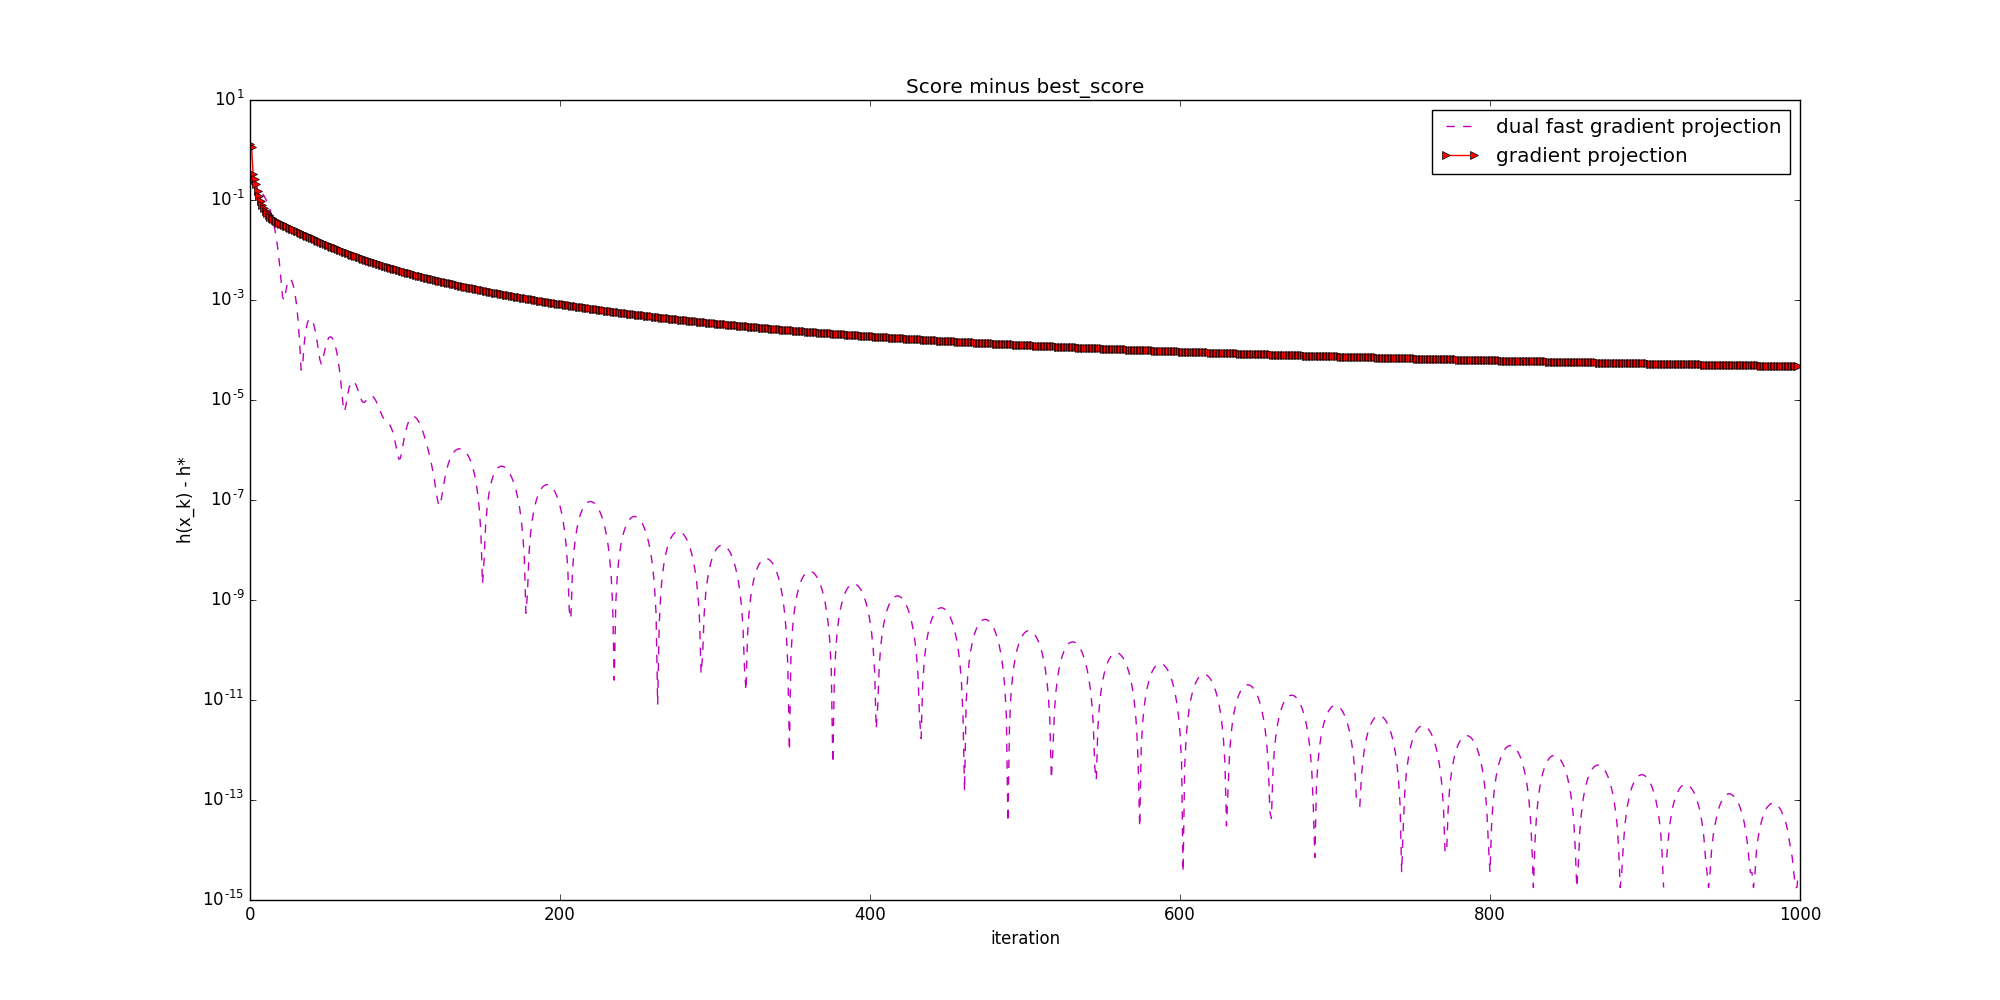
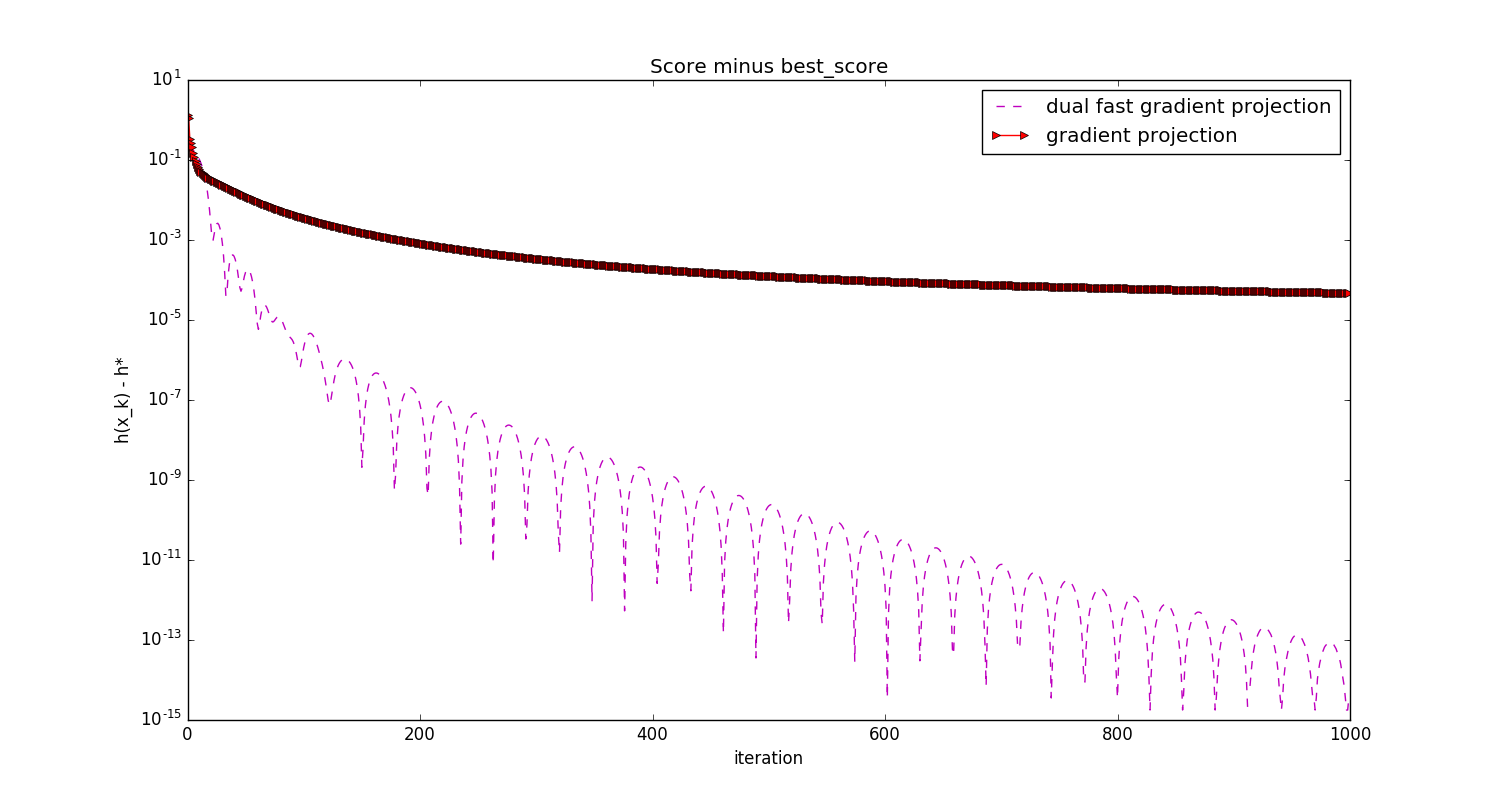
Add the dual objective function to the plots

diff --git a/hw3/q1/compare_methods.py b/hw3/q1/compare_methods.py
@@ -10,7 +10,7 @@ from hw3.q1.utils import q1_search_state, q1_dual_search_state
 
 def best_value():
     """
-    Returns the best possible score.
+    Returns the best possible objective function.
     :return:
     """
     method = single_variable_search.SingleVarSearch(1.5)
@@ -56,17 +56,18 @@ def Q1_comparison():
     print gradient_projection_5_vars.full_solution()
 
     # Plot required by exercise
-    plt.figure(figsize=(20, 10))
-    plt.title("Score as function of iteration")
+    plt.figure(figsize=(15, 8))
+    plt.title("objective function as function of iteration")
     plt.xlabel("iteration")
     plt.ylabel("h(x_k)")
-    plt.plot(scores_primal[gradient_projection_5_vars][:100], 'r->', label='gradient projection')
-    plt.plot(scores_primal[dual_fgp][:100], 'm--', label='dual fast gradient projection')
+    plt.plot(scores_primal[gradient_projection_5_vars][:100], 'r->', label='primal objective function - gradient projection')
+    plt.plot(scores_primal[dual_fgp][:100], 'm--', label='primal objective function - dual fast gradient projection')
+    plt.plot(scores[dual_fgp][:100], 'b-*', label='dual objective function - dual fast gradient projection')
     plt.legend()
     plt.savefig("q1c_first_100_iterations.png")
 
     # Plot of all methods.
-    plt.figure(figsize=(20, 10))
+    plt.figure(figsize=(15, 8))
     plt.plot(scores_primal[gradient_projection_5_vars][:100], 'r->', label='gradient projection')
     plt.plot(scores_primal[gradient_projection_dual][:100], 'c->', label='gradient projection dual')
     plt.plot(scores_primal[naive_3_vars][:100], 'b-<', label='naive gradient descent')
@@ -79,7 +80,7 @@ def Q1_comparison():
     h_best = best_value()
 
     # Plot required by exercise.
-    plt.figure(figsize=(20, 10))
+    plt.figure(figsize=(15, 8))
     plt.title("Score minus best_score")
     plt.xlabel("iteration")
     plt.ylabel("h(x_k) - h*")
@@ -87,8 +88,9 @@ def Q1_comparison():
     plt.semilogy(np.array(scores_primal[gradient_projection_5_vars]) - h_best, 'r->', label='gradient projection')
     plt.legend()
     plt.savefig("q1d_first_1000_iterations_diff_from_best.png")
+
     # Plot of all methods.
-    plt.figure(figsize=(20, 10))
+    plt.figure(figsize=(15, 8))
     plt.semilogy(np.array(scores_primal[gradient_projection_dual]) - h_best, 'c->', label='dual gradient projection')
     plt.semilogy(np.array(scores_primal[dual_fgp]) - h_best, 'm--', label='dual fast gradient projection')
     plt.semilogy(np.array(scores_primal[gradient_projection_5_vars]) - h_best, 'r->', label='gradient projection')
